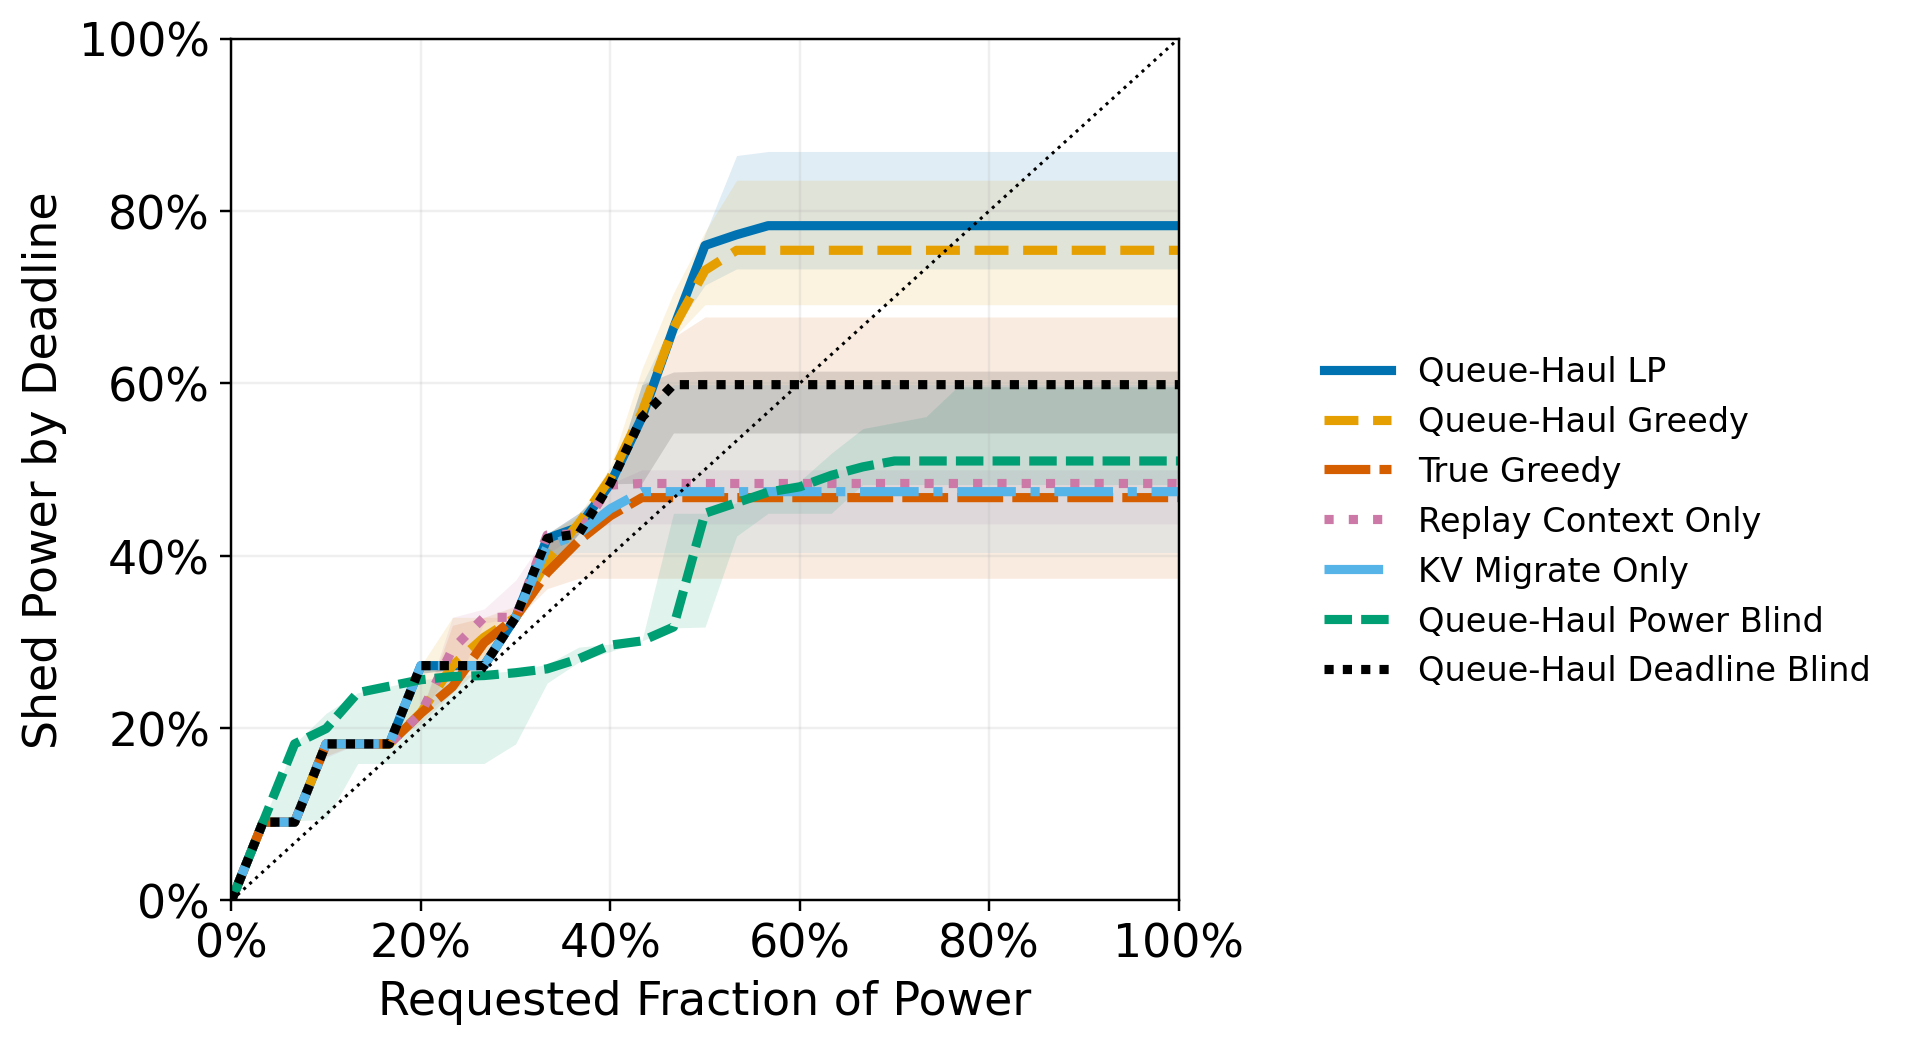
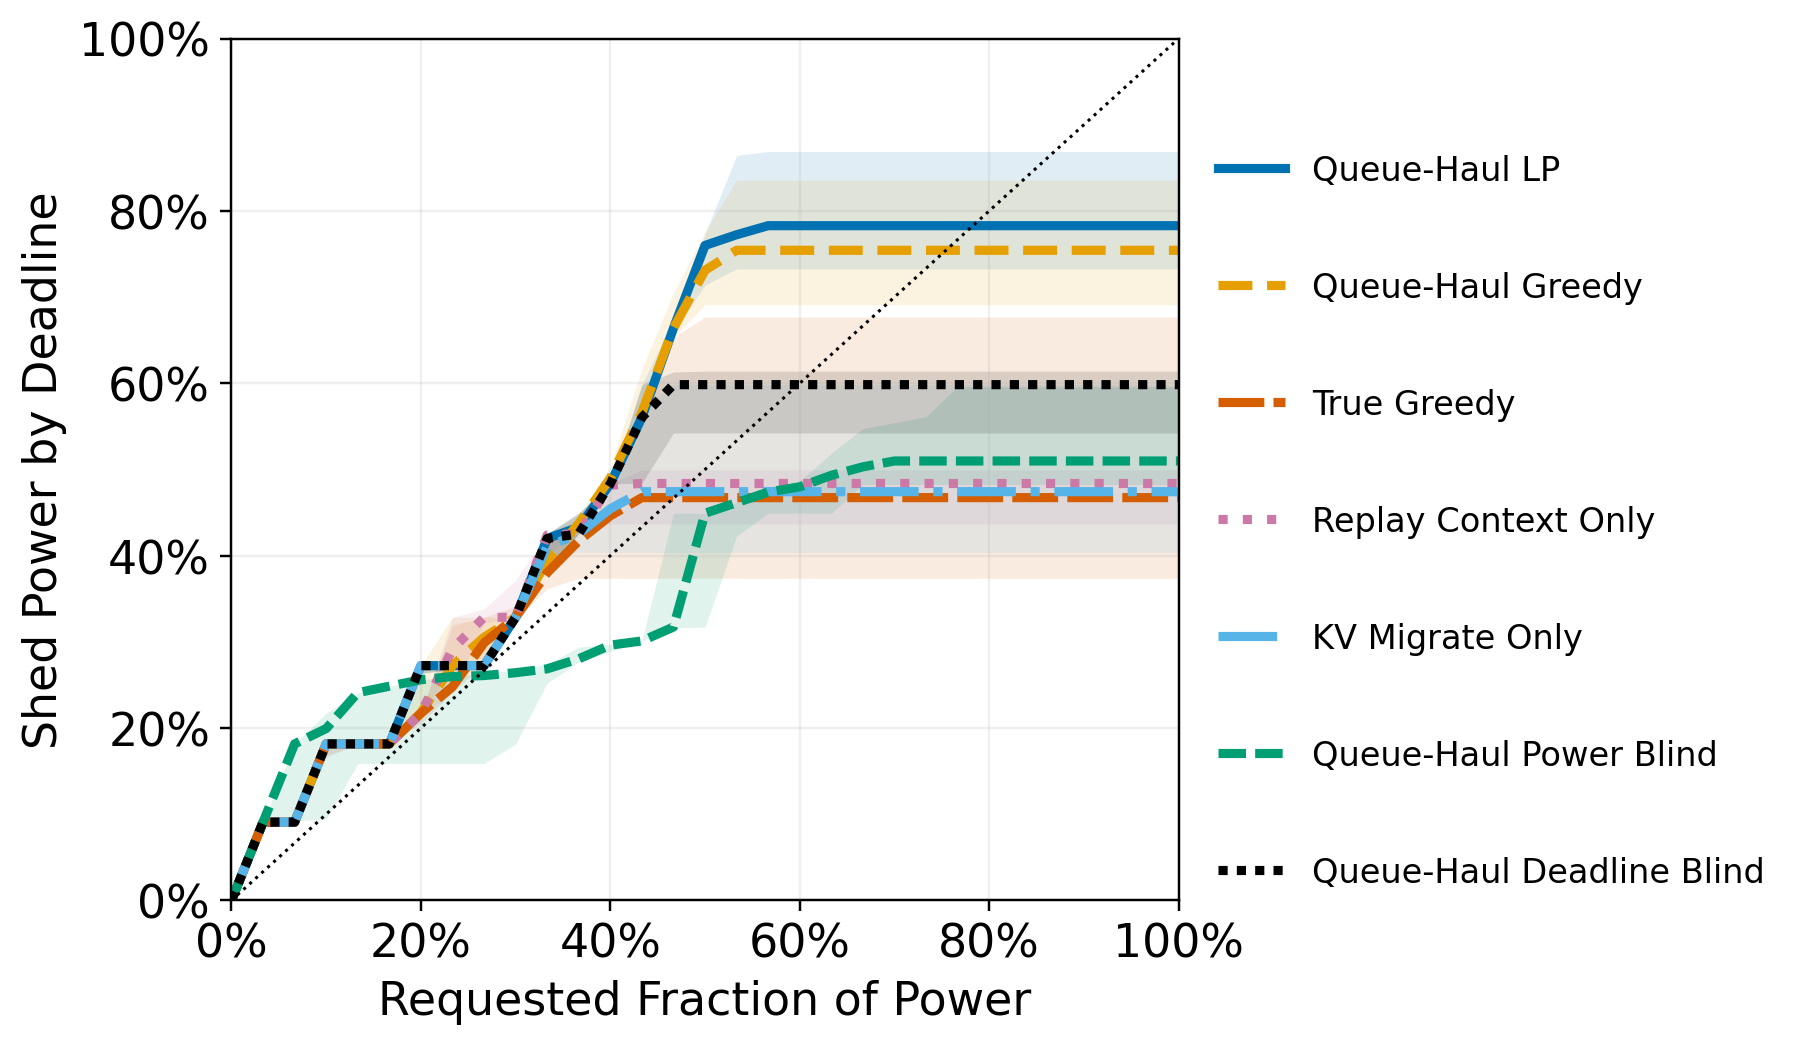
Tighten frontier side legend

diff --git a/agent-migrate/queue-haul/plot_pooled_shed_frontier.py b/agent-migrate/queue-haul/plot_pooled_shed_frontier.py
@@ -115,7 +115,7 @@ def write_plot(summary, out: Path) -> None:
     axis.grid(alpha=.2)
     handles, labels = axis.get_legend_handles_labels()
     fig.legend(handles, labels, frameon=False, ncol=1, loc="center left",
-               bbox_to_anchor=(1, .5))
+               bbox_to_anchor=(.92, .5), labelspacing=2.5)
     fig.tight_layout()
     for suffix in ("png", "pdf"):
         fig.savefig(out.with_suffix(f".{suffix}"), dpi=plot_style.SAVE_DPI,
